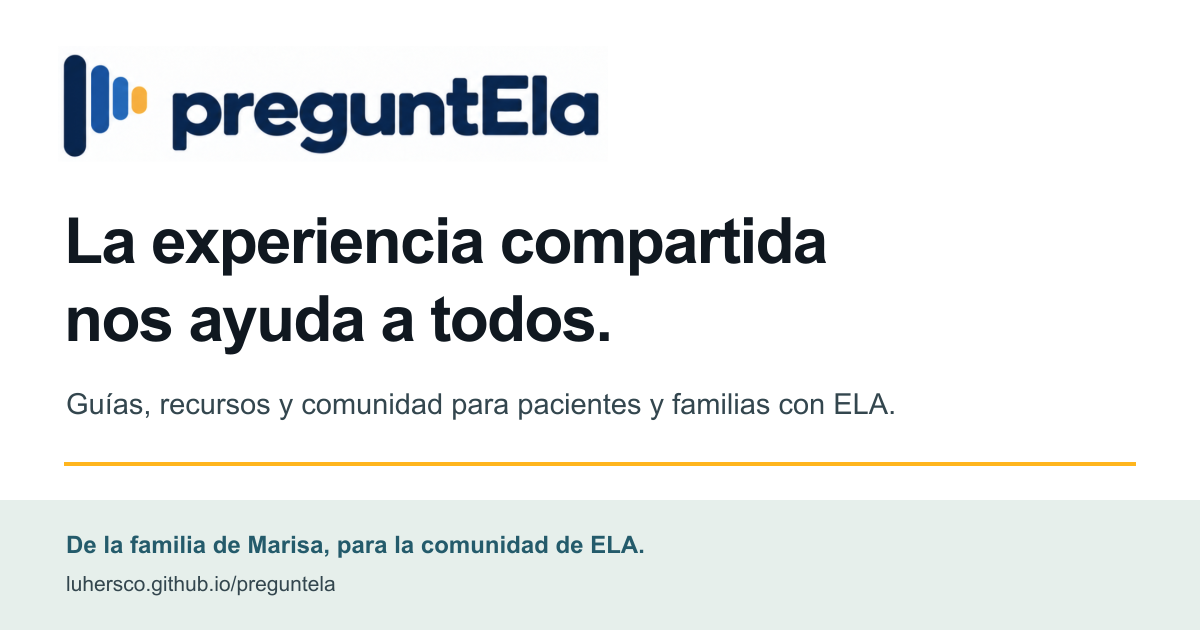
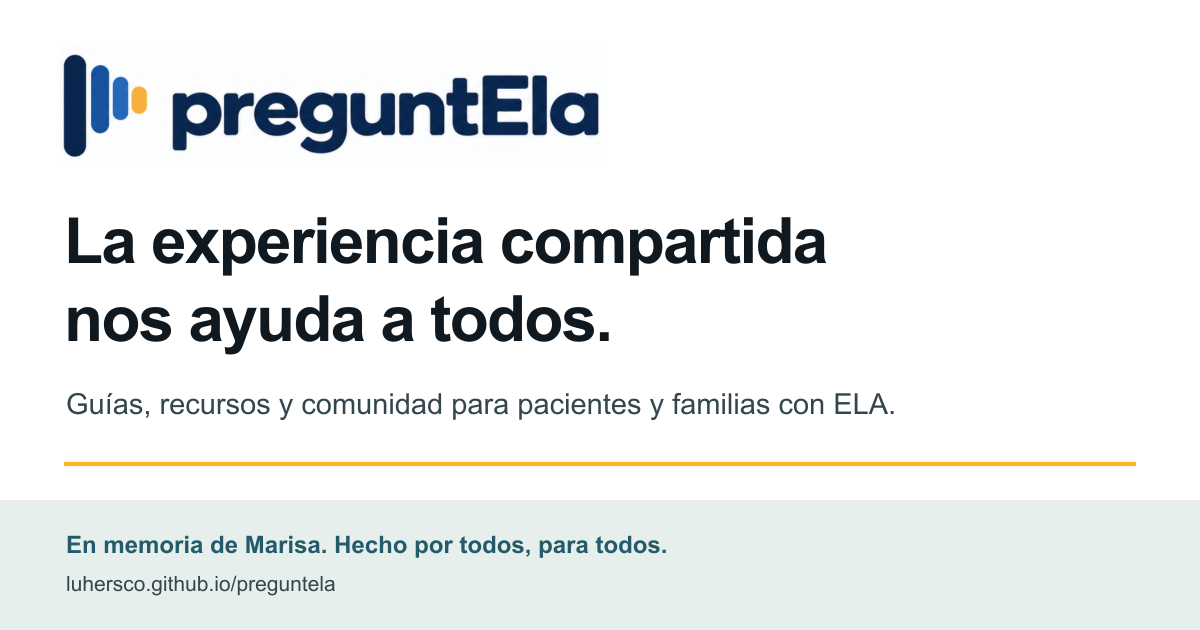
En memoria de Marisa: un sitio hecho por todos y para todos
Reescribir Acerca de alrededor del homenaje a Marisa y la ayuda compartida en el grupo de WhatsApp. Retirar la historia de MarisApp, las notas de prensa y las atribuciones individuales. Actualizar el pie, Inicio y la tarjeta para compartir; conservar los cuatro cuadros y los mensajes originales. Las 34 comprobaciones existentes pasan.

Changed region(s): [[0.0617, 0.8444, 0.555, 0.9048]]

diff --git a/index.html b/index.html
@@ -5,7 +5,7 @@
 <meta name="viewport" content="width=device-width, initial-scale=1, viewport-fit=cover">
 <title>PreguntELA</title>
 <meta name="description" content="Información práctica sobre ELA: medicamentos, equipamiento, comunicación, alimentación, respiración, consejos y trámites. Una comunidad de pacientes y familias en Argentina.">
-<meta name="author" content="Marcela · Familia de Marisa · Comunidad La ELA no nos Define">
+<meta name="author" content="Comunidad de PreguntELA">
 <meta name="color-scheme" content="light dark">
 <meta name="theme-color" content="#FFFFFF" media="(prefers-color-scheme: light)">
 <meta name="theme-color" content="#101820" media="(prefers-color-scheme: dark)">
@@ -17,15 +17,15 @@
 <meta property="og:type" content="website">
 <meta property="og:site_name" content="PreguntELA">
 <meta property="og:locale" content="es_AR">
-<meta property="og:title" content="PreguntELA — lo que aprendieron cinco años de pacientes y familias">
+<meta property="og:title" content="PreguntELA — hecho por todos, para todos">
 <meta property="og:description" content="Información práctica sobre ELA: medicamentos, equipamiento, comunicación, alimentación, respiración, consejos y trámites. Una comunidad de pacientes y familias en Argentina.">
-<meta property="og:image" content="https://luhersco.github.io/preguntela/og-image.png?v=marisa-2">
+<meta property="og:image" content="https://luhersco.github.io/preguntela/og-image.png?v=comunidad-3">
 <meta property="og:image:width" content="1200">
 <meta property="og:image:height" content="630">
 <meta name="twitter:card" content="summary_large_image">
 <meta name="twitter:title" content="PreguntELA">
 <meta name="twitter:description" content="Información práctica sobre ELA: medicamentos, equipamiento, comunicación, alimentación, respiración, consejos y trámites. Una comunidad de pacientes y familias en Argentina.">
-<meta name="twitter:image" content="https://luhersco.github.io/preguntela/og-image.png?v=marisa-2">
+<meta name="twitter:image" content="https://luhersco.github.io/preguntela/og-image.png?v=comunidad-3">
 <style>
 *,*::before,*::after{box-sizing:border-box}
 html{-webkit-text-size-adjust:100%}
@@ -36,7 +36,7 @@ button,input,textarea,select{font:inherit;color:inherit}
 </style>
 <style>
 :root{
-  /* Shared with MarisApp: styles.ts, components.tsx and approved artwork. */
+  /* Paleta de PreguntELA y diseño aprobado por la comunidad. */
   --ground:#FFFFFF;
   --surface:#FFFFFF;
   --surface-2:#EDF0EC;
@@ -434,16 +434,15 @@ footer.foot{border-top:1px solid var(--line);margin-top:64px;padding-top:26px;fo
 .footbrand{display:flex;align-items:center;gap:8px;color:var(--brand-ink);line-height:1.2}
 .footbrand .brandlockup{width:210px}
 
-/* ---------- family story and Marisa's paintings ---------- */
+/* ---------- comunidad y homenaje a Marisa ---------- */
 .about-intro{max-width:800px;margin-bottom:30px}
 .about-intro h2{font-size:clamp(2rem,4.5vw,3.2rem);letter-spacing:-.035em;margin-bottom:18px}
 .about-intro .lede{font-size:1.15rem;max-width:65ch}
-.family-story{display:grid;grid-template-columns:1fr 1fr;gap:22px;margin:28px 0 46px}
-.family-story article{padding:26px;border:1px solid var(--line);border-top:4px solid var(--brand-gold);border-radius:var(--radius);background:var(--surface)}
-.family-story article:first-child{border-top-color:#1674BC}
-.family-story h3{font-size:1.45rem;margin-bottom:14px}
-.family-story p{color:var(--ink-2)}
-.family-story p:last-child{margin-bottom:0}
+.community-story{max-width:76ch;margin:28px 0 46px}
+.community-story h3{font-size:1.4rem;margin:28px 0 12px}
+.community-story p{color:var(--ink-2)}
+.community-story .community-motto{border-left:4px solid var(--brand-gold);padding:18px 22px;margin:26px 0;background:var(--accent-soft);border-radius:0 16px 16px 0;color:var(--ink);font-weight:600}
+.community-story .btn{display:inline-block;text-decoration:none}
 .about-section{margin:44px 0}
 .about-section h3{font-size:1.7rem;margin-bottom:10px}
 .about-section>.lede{max-width:70ch}
@@ -453,17 +452,10 @@ footer.foot{border-top:1px solid var(--line);margin-top:64px;padding-top:26px;fo
 .artwork img{display:block;width:100%;height:100%;object-fit:contain}
 .artwork figcaption{display:flex;justify-content:space-between;gap:12px;padding:14px 18px;font-size:.87rem;color:var(--ink-2)}
 .artwork figcaption a{font-weight:600;white-space:nowrap}
-.press-list{display:grid;grid-template-columns:1fr 1fr;gap:14px;margin-top:22px}
-.press-link{display:flex;flex-direction:column;align-items:flex-start;gap:10px;padding:22px;border:1px solid var(--line);border-radius:18px;text-decoration:none;background:var(--surface);color:var(--ink)}
-.press-link:hover{border-color:var(--accent);background:var(--accent-soft)}
-.press-link .press-source{font-size:.78rem;font-weight:700;letter-spacing:.06em;text-transform:uppercase;color:var(--accent-ink)}
-.press-link strong{font-size:1.06rem;line-height:1.4}
-.press-link .press-action{margin-top:auto;font-size:.85rem;text-decoration:underline;text-underline-offset:3px;color:var(--accent-ink)}
 .about-details{border-top:1px solid var(--line);padding-top:34px;margin-top:44px}
 .about-details h3.sec{margin-top:30px}
 @media(max-width:600px){
-  .family-story,.art-gallery,.press-list{grid-template-columns:1fr}
-  .family-story article{padding:22px}
+  .art-gallery{grid-template-columns:1fr}
   .artwork>a{aspect-ratio:auto;padding:12px}
   .artwork img{height:auto}
   .artwork figcaption{padding:12px 14px}
@@ -546,11 +538,11 @@ nav.tabs{flex-wrap:wrap;overflow:visible}.tab{font-size:.88rem;padding:10px 11px
 <main>
 <!-- practical views start -->
 <section class="view on" id="v-inicio" role="tabpanel" aria-label="Inicio">
-  <div class="topic-intro"><p class="eyebrow">De familia a familia</p><h2 class="big">¿Qué necesitás resolver hoy?</h2><p class="lede">Información y experiencias para acompañar la vida con ELA. Elegí lo que necesitás y encontrá por dónde empezar.</p></div>
+  <div class="topic-intro"><p class="eyebrow">De todos, para todos</p><h2 class="big">¿Qué necesitás resolver hoy?</h2><p class="lede">Información y experiencias para acompañar la vida con ELA. Elegí lo que necesitás y encontrá por dónde empezar.</p></div>
   <div class="start-callout"><div><h3>Me diagnosticaron ELA</h3><p>Los primeros pasos, el equipo de salud y cómo tramitar el CUD.</p></div><a class="btn" href="#/empezar" data-v="empezar">Por dónde empezar →</a></div>
   <div class="need-grid" id="needGrid"></div>
   <div class="topic-note"><strong>Lo que una familia aprendió puede ayudar a otra.</strong><p>Dentro de cada tema podés leer y compartir experiencias si tenés acceso aprobado a la comunidad. La información general está abierta para todos.</p><a href="#/comunidad" data-v="comunidad">Entrar o solicitar acceso</a></div>
-  <div class="topic-links"><a href="#/preguntar" data-v="preguntar">Buscar con mis palabras</a><a href="#/directorio" data-v="directorio">Buscar un profesional o proveedor</a><a href="#/acerca" data-v="acerca">La historia de Marisa y nuestra familia</a></div>
+  <div class="topic-links"><a href="#/preguntar" data-v="preguntar">Buscar con mis palabras</a><a href="#/directorio" data-v="directorio">Buscar un profesional o proveedor</a><a href="#/acerca" data-v="acerca">En memoria de Marisa: cómo nació PreguntELA</a></div>
   <p class="hint">Las experiencias de otras familias no reemplazan una evaluación del equipo de salud. Ante una urgencia, contactá al servicio de emergencias.</p>
 </section>
 <section class="view" id="v-medicamentos" role="tabpanel" aria-label="Tratamientos farmacológicos" data-community-scope></section>
@@ -697,7 +689,7 @@ nav.tabs{flex-wrap:wrap;overflow:visible}.tab{font-size:.88rem;padding:10px 11px
     </div>
     <div class="panel" id="mePanel" hidden style="margin-bottom:22px">
       <div class="formrow"><label for="meNombre">Cómo aparece tu nombre en lo que aportás</label>
-        <input type="text" id="meNombre" maxlength="60" placeholder="Ej: Marcela C."></div>
+        <input type="text" id="meNombre" maxlength="60" placeholder="Ej: Ana G."></div>
       <div class="formrow"><label for="meRolC">Sos…</label>
         <select id="meRolC"><option value="">Prefiero no decirlo</option><option>Paciente</option>
           <option>Familiar</option><option>Cuidador/a</option><option>Profesional de la salud</option></select></div>
@@ -816,29 +808,29 @@ nav.tabs{flex-wrap:wrap;overflow:visible}.tab{font-size:.88rem;padding:10px 11px
 <!-- ============ ACERCA ============ -->
 <section class="view" id="v-acerca" role="tabpanel">
   <div class="about-intro">
-    <p class="eyebrow">Acerca de</p>
-    <h2>Marisa, el origen de una ayuda compartida</h2>
-    <p class="lede">MarisApp y PreguntELA nacen en la familia de Marisa, con una misma intención: acompañar a las personas con ELA y a quienes las cuidan.</p>
+    <p class="eyebrow">En memoria de Marisa</p>
+    <h2 class="big">Hecho por todos, para todos.</h2>
+    <p class="lede">PreguntELA nace en homenaje a Marisa, que vivió con ELA y falleció. Su recuerdo nos inspira a convertir lo aprendido en ayuda para otras personas y sus familias.</p>
   </div>
 
-  <div class="family-story">
-    <article>
-      <p class="eyebrow">Andy · su nieto</p>
-      <h3>MarisApp: seguir comunicándose con su voz</h3>
-      <p>Cuando la ELA empezó a afectar el habla de Marisa, su nieto Andrés, a quien la familia llama Andy, buscó una forma de ayudarla a comunicarse. Reunió grabaciones de su abuela y creó MarisApp: una herramienta que permite escribir un mensaje y escucharlo con una voz reconstruida a partir de esos audios.</p>
-      <p>Lo que empezó para ayudar a su abuela abrió un camino para acompañar también a otras personas que necesitan apoyo para comunicarse.</p>
-    </article>
-    <article>
-      <p class="eyebrow">Marcela · su hija y mamá de Andy</p>
-      <h3>PreguntELA: compartir lo que vamos aprendiendo</h3>
-      <p>Este sitio también fue creado por la familia de Marisa. Su hija Marcela, mamá de Andy, creó PreguntELA para ayudar a la comunidad de ELA a encontrar información y compartir experiencias.</p>
-      <p>El sitio reúne lo aprendido por pacientes, familiares y cuidadores del grupo <em>La ELA no nos Define</em>, para que cada nueva familia pueda apoyarse en lo que otras ya atravesaron.</p>
-    </article>
+  <div class="community-story">
+    <h3>Cuando necesitábamos respuestas</h3>
+    <p>Durante la enfermedad de Marisa, encontrar información cuando necesitábamos ayuda fue una de las grandes dificultades. Había preguntas nuevas, decisiones por tomar y trámites que no sabíamos cómo resolver. Muchas veces, lo que más necesitábamos era hablar con alguien que ya hubiera pasado por lo mismo.</p>
+
+    <h3>Una comunidad que nos acompañó</h3>
+    <p>En el grupo de WhatsApp de la Fundación Bullrich encontramos esa ayuda. Pacientes y familiares respondían con amabilidad, compartían lo que les había servido y acompañaban desde su propia experiencia. Entre todos, hicimos que el proceso de la enfermedad fuera más llevadero.</p>
+    <p>Cada respuesta, cada consejo y cada dato compartido nos ayudaron a sentirnos menos solos. Esa generosidad es el corazón de este sitio.</p>
+
+    <h3>Compartir lo aprendido para ayudar a quienes llegan</h3>
+    <p>PreguntELA reúne y ordena la información de ese grupo para que sea más fácil encontrarla cuando hace falta. Queremos que los nuevos pacientes y sus familias puedan apoyarse en lo que otros ya aprendieron, y que quienes seguimos formando parte de esta comunidad podamos continuar ayudándonos.</p>
+    <p>Este espacio se construye y se completa entre todos: con experiencias, preguntas, aportes y correcciones. Cada persona tiene algo valioso para compartir, y cada contribución puede ayudar a otra familia.</p>
+    <p class="community-motto">Con la información de todos, las contribuciones de todos y la intención de ayudarnos entre todos.</p>
+    <a class="btn" href="#/comunidad" data-v="comunidad">Sumate a la comunidad</a>
   </div>
 
   <section class="about-section" aria-labelledby="marisa-art-title">
     <h3 id="marisa-art-title">Los cuadros de Marisa</h3>
-    <p class="lede">Compartimos también algo de su mundo a través de estos cuatro cuadros. Su obra forma parte de la historia y de la identidad de esta familia.</p>
+    <p class="lede">Estos cuadros nos acercan a algo de su mundo. Compartirlos es también una forma de recordar a Marisa y mantener presente su creatividad.</p>
     <div class="art-gallery">
       <figure class="artwork">
         <a href="marisa-obra-01.jpg" target="_blank" rel="noopener" aria-label="Ampliar el cuadro de Marisa con fondo amarillo (abre otra pestaña)"><img src="marisa-obra-01.jpg" width="897" height="908" loading="lazy" decoding="async" alt="Cuadro de Marisa: fondo amarillo, una forma suspendida y figuras vegetales y animales sobre un suelo ocre."></a>
@@ -859,24 +851,6 @@ nav.tabs{flex-wrap:wrap;overflow:visible}.tab{font-size:.88rem;padding:10px 11px
     </div>
   </section>
 
-  <section class="about-section" aria-labelledby="family-press-title">
-    <h3 id="family-press-title">La historia de MarisApp en los medios</h3>
-    <p class="lede">Estas notas cuentan cómo nació MarisApp y cómo una iniciativa familiar puede ayudar a otras personas.</p>
-    <div class="press-list">
-      <a class="press-link" href="https://www.clarin.com/internacional/17-anos-recupero-voz-abuela-ela-desarrolla-app-habla-adaptada-gratuita-personas-enfermedad_0_JWB2JG02Xr.html" target="_blank" rel="noopener noreferrer">
-        <span class="press-source">Clarín · Internacional</span><strong>Andy y la aplicación que creó para su abuela</strong><span class="press-action">Leer la nota en Clarín ↗</span>
-      </a>
-      <a class="press-link" href="https://www.clarin.com/historias/amor-vuelve-nietos-cambiaron-la-vida-abuelos_0_pMbkm3KK47.html" target="_blank" rel="noopener noreferrer">
-        <span class="press-source">Clarín · Historias</span><strong>El amor que vuelve: nietos que les cambiaron la vida a sus abuelos</strong><span class="press-action">Leer la nota en Clarín ↗</span>
-      </a>
-      <a class="press-link" href="https://www.lanacion.com.ar/sociedad/voces-recuperadas-y-nuevos-desarrollos-el-avance-de-la-ia-en-la-ela-tambien-llega-al-pais-nid20062026/" target="_blank" rel="noopener noreferrer">
-        <span class="press-source">La Nación · Sociedad</span><strong>MarisApp entre las iniciativas argentinas para recuperar la voz</strong><span class="press-action">Leer la nota en La Nación ↗</span>
-      </a>
-      <a class="press-link" href="https://tn.com.ar/sociedad/2026/02/22/tiene-18-anos-y-creo-una-app-para-que-su-abuela-con-ela-vuelva-a-comunicarse-escucharla-fue-emocionante/" target="_blank" rel="noopener noreferrer">
-        <span class="press-source">TN · Sociedad</span><strong>La historia de Andy, Marisa y una nueva forma de comunicarse</strong><span class="press-action">Leer la nota en TN ↗</span>
-      </a>
-    </div>
-  </section>
 
   <div class="col about-details">
     <h3 class="sec">De dónde viene la información de PreguntELA</h3>
@@ -888,7 +862,7 @@ nav.tabs{flex-wrap:wrap;overflow:visible}.tab{font-size:.88rem;padding:10px 11px
     <ul class="plain">
       <li>Se combinaron dos exportaciones del chat y se eliminaron los duplicados: <strong>19.933 mensajes</strong> reales.</li>
       <li>Se descartaron saludos, condolencias, cadenas y mensajes sin información. Quedaron <strong>3.862 mensajes</strong> con contenido útil, que son los que se pueden buscar acá.</li>
-      <li>Se leyeron esos mensajes tema por tema y se escribieron <strong>38 fichas de respuesta</strong> y siete guías, con lo que se repitió y con lo que el grupo corrigió más de una vez.</li>
+      <li>La información se organizó en <strong>siete secciones prácticas</strong>, con fichas, un buscador y acceso a los mensajes originales. Los nuevos aportes de la comunidad permiten seguir completándola.</li>
       <li>De los contactos que circularon en el chat se armó un <strong>directorio de unos cincuenta</strong> profesionales, centros, proveedores, farmacias, abogados y fundaciones.</li>
     </ul>
 
@@ -917,8 +891,8 @@ nav.tabs{flex-wrap:wrap;overflow:visible}.tab{font-size:.88rem;padding:10px 11px
   <div class="footgrid">
     <div>
       <p class="footbrand"><span class="brandlockup"><img src="preguntela-logo-source.png" alt="PreguntELA" width="1462" height="404" decoding="async"></span></p>
-      <p>Junto a MarisApp, una familia de herramientas de ayuda para personas con ELA.</p>
-      <p>Creado por Marcela, hija de Marisa y mamá de Andy. <a href="#/acerca" data-v="acerca">Conocé nuestra historia</a>.</p>
+      <p><strong>Hecho por todos, para todos.</strong></p>
+      <p>En memoria de Marisa, con la experiencia y las contribuciones de toda la comunidad. <a href="#/acerca" data-v="acerca">Conocé cómo nació PreguntELA</a>.</p>
       <p>Hecho con lo que se ayudaron entre sí las familias del grupo <em>La ELA no nos Define</em>, entre octubre de 2021 y febrero de 2026.</p>
     </div>
     <div>
@@ -1807,7 +1781,6 @@ var FUENTES = {
   tobii:['Tobii Dynavox · Seguimiento ocular','https://www.tobiidynavox.com/pages/what-is-eye-tracking'],
   irisbond:['IRISBOND · Soluciones de comunicación','https://www.irisbond.com/comunicacion-aumentativa-alternativa/soluciones/'],
   hablalo:['Háblalo · Sitio oficial','https://www.hablalo.app/'],
-  marisapp:['MarisApp · Abrir la aplicación','https://maris-app.com/'],
   cud:['Argentina.gob.ar · Tramitar el CUD','https://www.argentina.gob.ar/servicio/como-obtener-el-certificado-unico-de-discapacidad-cud'],
   reclamo:['Superintendencia · Reclamos de cobertura','https://www.argentina.gob.ar/servicio/denuncia-por-problematicas-de-cobertura-prestacional'],
   electro:['Argentina.gob.ar · Registro de electrodependientes','https://www.argentina.gob.ar/servicio/inscribirme-en-el-registro-de-electrodependientes-por-cuestiones-de-salud']
@@ -1815,7 +1788,7 @@ var FUENTES = {
 var NECESIDADES = [
  {id:'medicamentos',n:'Tratamientos farmacológicos',short:'Medicamentos',d:'Tratamientos para ELA, opciones en investigación y medicación para síntomas.'},
  {id:'equipamiento',n:'Equipamiento y movilidad',short:'Equipamiento',d:'Sillas, grúas, almohadones, cama, baño y adaptaciones. Qué evaluar con fisiatría.'},
- {id:'comunicacion',n:'Comunicación',short:'Comunicación',d:'MarisApp, Tobii, IRISBOND, Háblalo, tableros y otras formas de expresarte.'},
+ {id:'comunicacion',n:'Comunicación',short:'Comunicación',d:'Tobii, IRISBOND, Háblalo, tableros y otras formas de expresarte.'},
  {id:'alimentacion',n:'Alimentación',short:'Alimentación',d:'Nutrición, suplementos, espesantes, utensilios y botón gástrico.'},
  {id:'respiracion',n:'Asistencia respiratoria',short:'Respiración',d:'BiPAP, traqueostomía, secreciones, equipos y respaldo eléctrico.'},
  {id:'consejos',n:'Otros consejos útiles',short:'Consejos útiles',d:'La vida cotidiana: cuidados, organización, ayuda y experiencias de familiares.'},
@@ -1892,7 +1865,6 @@ var INSUMO_INFO = {
 };
 INSUMOS.forEach(function(g){g.items.forEach(function(i){if(INSUMO_INFO[i.k]) i.d=INSUMO_INFO[i.k];});});
 INSUMOS.find(function(g){return g.g==='Comunicación';}).items.push(
- {k:'marisapp',n:'MarisApp',d:'Creada por Andy para ayudar a su abuela Marisa a comunicarse. Forma parte de la misma historia familiar que PreguntELA, creado por Marcela, hija de Marisa y madre de Andy.'},
  {k:'hablalo',n:'Háblalo',d:'Aplicación de apoyo a la comunicación que incluye herramientas de texto, voz y pictogramas. Probá sus opciones según las necesidades de la persona.'}
 );
 INSUMOS.find(function(g){return g.g==='Alimentación';}).items.push({k:'fortisip',n:'Fortisip',d:'Suplemento nutricional oral de Nutricia. Nutrición debe evaluar la presentación, la cantidad y la tolerancia. No reemplaza por sí solo una evaluación de deglución.'});
@@ -1921,8 +1893,7 @@ function filtroTemaHTML(id,placeholder){return '<label class="topic-filter"><spa
 function itemTemaHTML(i,sec,view){
   var info=sec==='medicacion'?MED_INFO[i.k]:null;
   var sources=info&&info.f?info.f:FUENTES[i.k]?[i.k]:[];
-  var extra=i.k==='marisapp'?'<p>'+enlaceTema('acerca','Conocé la historia de Andy, Marisa y Marcela')+'</p>':'';
-  return '<details class="topic-item" id="'+view+'-'+i.k+'" data-topic-item data-key="'+attr(i.k)+'" data-search="'+attr(fold(i.n+' '+i.d+' '+(info?info.s:'')))+'"><summary>'+esc(i.n)+(info?'<span class="item-status">'+esc(info.s)+'</span>':'')+'</summary><div class="topic-body"><p>'+esc(i.d)+'</p>'+extra+(sources.length?fuenteHTML(sources):'')+'<p class="hint"><a href="#/preguntar" data-history-query="'+attr(i.n)+'">Buscar conversaciones anteriores sobre este tema</a></p><div class="topic-community" data-topic-comments data-sec="'+sec+'" data-item="'+attr(i.k)+'"></div></div></details>';
+  return '<details class="topic-item" id="'+view+'-'+i.k+'" data-topic-item data-key="'+attr(i.k)+'" data-search="'+attr(fold(i.n+' '+i.d+' '+(info?info.s:'')))+'"><summary>'+esc(i.n)+(info?'<span class="item-status">'+esc(info.s)+'</span>':'')+'</summary><div class="topic-body"><p>'+esc(i.d)+'</p>'+(sources.length?fuenteHTML(sources):'')+'<p class="hint"><a href="#/preguntar" data-history-query="'+attr(i.n)+'">Buscar conversaciones anteriores sobre este tema</a></p><div class="topic-community" data-topic-comments data-sec="'+sec+'" data-item="'+attr(i.k)+'"></div></div></details>';
 }
 function grupoTemaHTML(g,view){return '<div class="topic-section" data-topic-group><h3>'+esc(g.g)+'</h3>'+g.items.map(function(i){return itemTemaHTML(i,'insumo',view);}).join('')+'</div>';}
 function atajosProfesionales(types){return '<div class="topic-links">'+types.map(function(t){return '<a href="#/comunidad" data-specialist="'+attr(t)+'">Buscar o recomendar '+esc(t.toLowerCase())+'</a>';}).join('')+enlaceTema('directorio','Directorio de profesionales y proveedores')+'</div>';}
@@ -1951,7 +1922,7 @@ function initPractical(){
   el('v-equipamiento').innerHTML=introTema('equipamiento','<p class="lede">Elementos para moverte, acomodarte y hacer más fácil la vida en casa. Abrí cada uno para ver información y experiencias.</p><div class="topic-note"><strong>Fisiatría y terapia ocupacional te ayudan a elegir.</strong><p>Llevá las medidas de puertas, baño, ascensor y espacios de giro. Pedí probar el equipo y que la orden describa las características que necesitás.</p></div>')+
     atajosProfesionales(['Fisiatra','Terapista ocupacional'])+filtroTemaHTML('equipamiento','Silla, tilt, grúa, almohadón, inodoro…')+INSUMOS.slice(0,3).map(function(g){return grupoTemaHTML(g,'equipamiento');}).join('')+'<div class="topic-links">'+enlaceTema('tramites/pedido','Modelo para pedir cobertura')+enlaceTema('alimentacion','Elementos para comer')+enlaceTema('respiracion','Equipos respiratorios')+'</div>';
   el('v-comunicacion').innerHTML=introTema('comunicacion','<p class="lede">Seguir eligiendo, conversando y diciendo lo que querés. Hay opciones con papel, pantallas, voz y control con la mirada.</p><p>Probá formas de acceso con fonoaudiología y terapia ocupacional. Tener un tablero impreso como respaldo puede ser útil cuando un equipo se queda sin batería.</p>'+fuenteHTML(['cuidados']))+
-    atajosProfesionales(['Fonoaudiólogo','Empresa de comunicación aumentativa'])+filtroTemaHTML('comunicacion','MarisApp, Tobii, IRISBOND, Háblalo…')+grupoTemaHTML({g:'Herramientas para comunicarte',items:INSUMOS.find(function(g){return g.g==='Comunicación';}).items.slice().sort(function(a,b){var order=['marisapp','tobii','irisbond','hablalo','pictogramas','tablet','teclado','soporte-disp'];return order.indexOf(a.k)-order.indexOf(b.k);})},'comunicacion')+'<div class="topic-links">'+enlaceTema('tramites/pedido','Modelo para pedir un dispositivo')+'</div>';
+    atajosProfesionales(['Fonoaudiólogo','Empresa de comunicación aumentativa'])+filtroTemaHTML('comunicacion','Tobii, IRISBOND, Háblalo…')+grupoTemaHTML({g:'Herramientas para comunicarte',items:INSUMOS.find(function(g){return g.g==='Comunicación';}).items.slice().sort(function(a,b){var order=['tobii','irisbond','hablalo','pictogramas','tablet','teclado','soporte-disp'];return order.indexOf(a.k)-order.indexOf(b.k);})},'comunicacion')+'<div class="topic-links">'+enlaceTema('tramites/pedido','Modelo para pedir un dispositivo')+'</div>';
   el('v-alimentacion').innerHTML=introTema('alimentacion','<p class="lede">Comer, hidratarte y sostener la nutrición con los apoyos que necesites.</p><p>Nutrición evalúa los requerimientos y los suplementos; fonoaudiología, la deglución y las texturas. Si comer cansa, hay atragantamientos o baja de peso, consultá para ajustar el plan.</p>'+fuenteHTML(['nutricion']))+
     '<div class="topic-feature"><h3>Botón gástrico y gastrostomía</h3><p>Qué son, cuándo conversar sobre esta opción y qué preguntar al equipo.</p>'+enlaceTema('alimentacion/boton','Ver botón gástrico →')+'</div>'+atajosProfesionales(['Nutricionista','Fonoaudiólogo','Gastroenterólogo'])+filtroTemaHTML('alimentacion','Espesante, Fortisip, botón, suplementos…')+
     grupoTemaHTML(INSUMOS.find(function(g){return g.g==='Alimentación';}),'alimentacion')+
